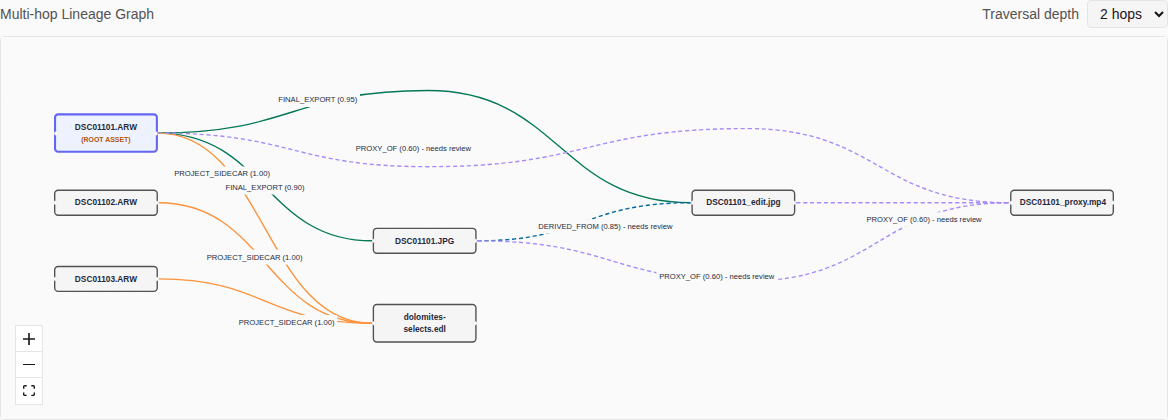
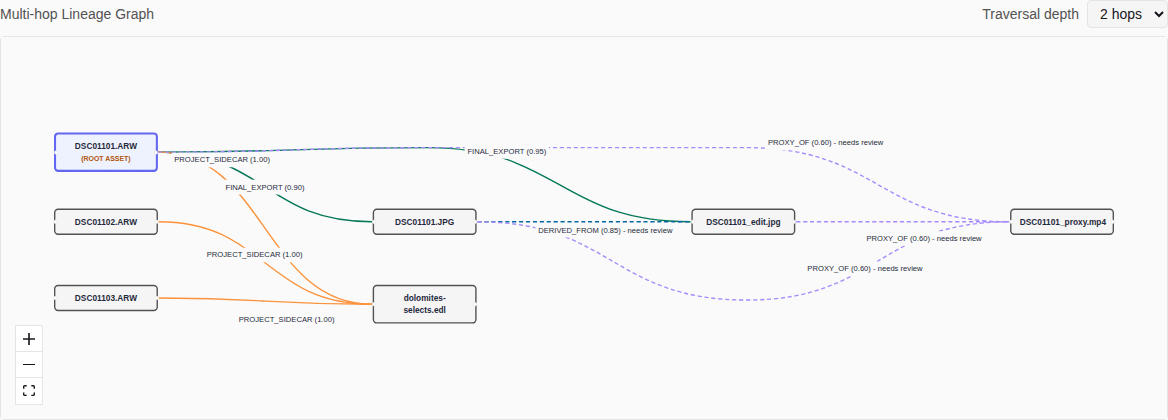
fix(web): share route slots between lineage edges from one source
Each long edge reserved its own row in every column it crosses, so a master
linked to every version of a 12-version chain made a 1210px column where the
nodes need 110px. Edges leaving one node already share a handle, so they now
share one slot per crossed column and fan out at the end: that chain's tallest
column is 220px, a 40-export fan-out 4510px against 4400px for the nodes alone.

A routed edge's earlier hops are now shared, so its label goes on its own last
hop (labelAnchor) rather than the midpoint of the whole route, where every
shared-route label would stack.

Regenerates asset-graph{,-light}.png.

Closes #601

Claude-Session: https://claude.ai/code/session_01YT45bsDB4fuLrcMKgwwJBG

diff --git a/web/src/lib/lineageLayout.test.ts b/web/src/lib/lineageLayout.test.ts
@@ -75,3 +75,57 @@ describe("lineageRows routes (#598)", () => {
     expect(lineageRows(ranks, edges)).toEqual(lineageRows(ranks, edges));
   });
 });
+
+describe("shared route slots (#601)", () => {
+  it("shares one slot between edges from the same source", () => {
+    // 1 -> 2 -> 3 -> 4 spine; 1 -> 3 and 1 -> 4 both cross column 1 from node 1.
+    const edges = [e(1, 2), e(2, 3), e(3, 4), e(1, 3), e(1, 4)];
+    const ranks = lineageRanks([1, 2, 3, 4], edges);
+    const { routes } = lineageRows(ranks, edges);
+    expect(routes.get(3)![0]).toEqual(routes.get(4)![0]); // both cross column 1
+    expect(routes.get(4)).toHaveLength(2); // the longer edge continues past the shared slot
+  });
+
+  it("gives different sources their own slot in a column they both cross", () => {
+    const edges = [e(1, 2), e(2, 3), e(3, 4), e(1, 4), e(5, 4)];
+    const ranks = lineageRanks([1, 2, 3, 4, 5], edges);
+    const { routes } = lineageRows(ranks, edges);
+    expect(routes.get(3)![0].y).not.toBe(routes.get(4)![0].y);
+  });
+
+  it("keeps a master linked to every version of a chain within 2x of its node-only height", () => {
+    const ids = [1];
+    const edges = [];
+    for (let i = 2; i <= 12; i++) {
+      ids.push(i);
+      edges.push(e(i - 1, i));
+      if (i > 2) edges.push(e(1, i));
+    }
+    const ranks = lineageRanks(ids, edges);
+    const { rows, routes } = lineageRows(ranks, edges);
+    const perRank = new Map<number, Set<number>>();
+    const add = (rank: number, y: number) => perRank.set(rank, (perRank.get(rank) ?? new Set()).add(y));
+    ranks.forEach((rank, id) => add(rank, rows.get(id)!));
+    routes.forEach((slots) => slots.forEach((s) => add(s.rank, s.y)));
+    // Node-only, every column has one row; unshared slots made it 10 in the worst column.
+    expect(Math.max(...[...perRank.values()].map((ys) => ys.size))).toBeLessThanOrEqual(2);
+  });
+
+  it("never puts a route slot on a real node, over random DAGs", () => {
+    let seed = 12345;
+    const rand = () => (seed = (seed * 1664525 + 1013904223) % 4294967296) / 4294967296;
+    for (let g = 0; g < 200; g++) {
+      const n = 4 + Math.floor(rand() * 10);
+      const ids = Array.from({ length: n }, (_, i) => i + 1);
+      const edges = [];
+      for (let a = 1; a <= n; a++) for (let b = a + 1; b <= n; b++) if (rand() < 0.3) edges.push(e(a, b));
+      const ranks = lineageRanks(ids, edges);
+      const { rows, routes } = lineageRows(ranks, edges);
+      routes.forEach((slots) =>
+        slots.forEach((s) => {
+          ids.filter((id) => ranks.get(id) === s.rank).forEach((id) => expect(rows.get(id)).not.toBe(s.y));
+        }),
+      );
+    }
+  });
+});

diff --git a/web/src/lib/lineageLayout.ts b/web/src/lib/lineageLayout.ts
@@ -56,7 +56,9 @@ export interface RouteSlot {
  * Vertical position of every node, plus a route for each edge that spans more
  * than one column. Such an edge gets a dummy slot in every column it crosses;
  * the slot is laid out like a node, so real nodes make room for it and the
- * edge bends through the gap instead of running behind a node (#598).
+ * edge bends through the gap instead of running behind a node (#598). Edges
+ * from the same source share their slots (#601), so a master linked to many
+ * versions costs one row per crossed column, not one per link.
  *
  * Within a column, items are ordered by the mean height of their parents (then
  * id, for a stable order across refetches) so edges between neighbouring
@@ -85,8 +87,11 @@ export function lineageRows(
     let prev = nodeKey(e.sourceNodeId);
     const keys: string[] = [];
     for (let rank = from + 1; rank < to; rank++) {
-      const key = `d${i}:${rank}`;
-      items.set(key, { key, rank, sortId: e.sourceNodeId, parents: [prev] });
+      // One slot per source per column: edges leaving one node already share a
+      // handle, so they share the route through the middle columns too and fan
+      // out at the end, instead of each reserving a row of its own (#601).
+      const key = `d${e.sourceNodeId}:${rank}`;
+      if (!items.has(key)) items.set(key, { key, rank, sortId: e.sourceNodeId, parents: [prev] });
       keys.push(key);
       prev = key;
     }

diff --git a/web/src/lib/edgeStyle.ts b/web/src/lib/edgeStyle.ts
@@ -39,7 +39,8 @@ export function edgeVisual(
  * of each other. `labelT` slides the label along the source->target line and
  * `labelDy` nudges it vertically, both chosen per edge by `labelSpread`.
  * `waypoints` route an edge that spans several columns around the nodes in
- * between (see `lineageRows`).
+ * between (see `lineageRows`); edges from one source share them, so the label
+ * goes on the edge's own last hop (see `labelAnchor`).
  */
 export interface LineageEdgeData extends Record<string, unknown> {
   labelT: number;
@@ -121,4 +122,15 @@ export function pointAlong(points: Point[], t: number): Point {
     return { x, y: a.y + (b.y - a.y) * (3 * u * u - 2 * u * u * u) };
   }
   return first;
+}
+
+/**
+ * Where an edge's label goes. A plain edge labels its whole source->target
+ * span. A routed edge's earlier hops are shared with every other edge from the
+ * same source, so its label goes on the last hop (last waypoint -> target),
+ * the only stretch that is its own.
+ */
+export function labelAnchor(source: Point, waypoints: Point[], target: Point, t: number): Point {
+  const from = waypoints.length > 0 ? waypoints[waypoints.length - 1] : source;
+  return pointAlong([from, target], t);
 }

diff --git a/web/src/lib/edgeStyle.test.ts b/web/src/lib/edgeStyle.test.ts
@@ -1,5 +1,5 @@
 import { describe, expect, it } from "vitest";
-import { edgeVisual, pointAlong, routePath } from "./edgeStyle";
+import { edgeVisual, labelAnchor, pointAlong, routePath } from "./edgeStyle";
 
 describe("edgeVisual", () => {
   const base = { relationshipType: "PROXY_OF" as const, confidence: 0.5 };
@@ -53,5 +53,21 @@ describe("routePath / pointAlong (#598)", () => {
     const mid = pointAlong([{ x: 0, y: 0 }, { x: 200, y: 100 }], 0.5);
     expect(mid.x).toBe(100);
     expect(mid.y).toBeCloseTo(50);
+  });
+});
+
+describe("labelAnchor (#601)", () => {
+  const source = { x: 0, y: 0 };
+
+  it("labels a plain edge across its whole span", () => {
+    const target = { x: 200, y: 100 };
+    expect(labelAnchor(source, [], target, 0.5)).toEqual(pointAlong([source, target], 0.5));
+  });
+
+  it("keeps edges that share a route apart by labelling each one's own last hop", () => {
+    const shared = [{ x: 460, y: 22 }];
+    const a = labelAnchor(source, shared, { x: 920, y: -88 }, 0.5);
+    const b = labelAnchor(source, shared, { x: 920, y: 132 }, 0.5);
+    expect(Math.abs(a.y - b.y)).toBeGreaterThan(50);
   });
 });

diff --git a/web/src/components/AssetGraphCanvas.test.tsx b/web/src/components/AssetGraphCanvas.test.tsx
@@ -206,6 +206,14 @@ describe("review-state edge styling", () => {
       expect(waypoints[0].x).toBeLessThan(nodeX("3"));
       expect(waypoints[1].x).toBeGreaterThan(nodeX("3"));
       expect(waypoints[1].x).toBeLessThan(nodeX("4"));
+      // Edges from one source share their route (#601): 1 -> 4 and a second long edge 1 -> 3 start alike.
+      const shared = buildLineageFlow(1, {
+        rootId: 1,
+        // eslint-disable-next-line @typescript-eslint/no-explicit-any
+        nodes: [1, 2, 3, 4].map(node) as any,
+        edges: [lineageEdge(10, 1, 2), lineageEdge(11, 2, 3), lineageEdge(12, 3, 4), lineageEdge(13, 1, 4), lineageEdge(14, 1, 3)],
+      }).edges;
+      expect(shared.find((x) => x.id === "e-13")!.data!.waypoints![0]).toEqual(shared.find((x) => x.id === "e-14")!.data!.waypoints![0]);
       // Edges between adjacent columns are not routed.
       expect(edges.find((e) => e.id === "e-10")!.data!.waypoints).toBeUndefined();
     });

diff --git a/web/src/components/LineageEdge.tsx b/web/src/components/LineageEdge.tsx
@@ -1,5 +1,5 @@
 import { BaseEdge, EdgeLabelRenderer, getBezierPath, type EdgeProps } from "@xyflow/react";
-import { pointAlong, routePath, type LineageFlowEdge } from "../lib/edgeStyle";
+import { labelAnchor, routePath, type LineageFlowEdge } from "../lib/edgeStyle";
 
 export default function LineageEdge({
   id,
@@ -22,7 +22,7 @@ export default function LineageEdge({
     waypoints.length > 0
       ? routePath(points)
       : getBezierPath({ sourceX, sourceY, targetX, targetY, sourcePosition, targetPosition })[0];
-  const at = pointAlong(points, data?.labelT ?? 0.5);
+  const at = labelAnchor(points[0], waypoints, points[points.length - 1], data?.labelT ?? 0.5);
   const labelX = at.x;
   const labelY = at.y + (data?.labelDy ?? 0);
 
